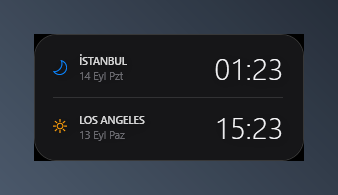
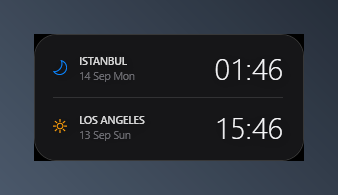
fix: recover the window when the display layout changes
The saved position was only validated at startup. Undock a laptop or
unplug a projector and the widget could sit outside the visible desktop
with no way back: it has no taskbar entry, no Alt+Tab entry, its
right-click menu needs a click on the window itself, and the
single-instance lock means relaunching does nothing. The only recovery
was deleting ayarlar.json by hand.

It now listens to SystemEvents.DisplaySettingsChanged, re-validates the
position on every layout change and pulls the window back to the
top-right corner if it has fallen off. The subscription is released on
close, like the theme watcher.

Also in this pass:

- README screenshots were showing the Turkish UI in the English README
  (PLANLAMA, "fark 10 sa", "14 Eyl Pzt"). They are now generated per
  language: docs/*.png in English, docs/*.tr.png in Turkish. The Turkish
  README gained real screenshots; it only had ASCII diagrams before.
- Dropped a UTF-8 BOM I had accidentally introduced into the three
  markdown files. saat.ps1 keeps its BOM - Windows PowerShell 5.1 needs
  it to read the Turkish characters correctly.
- Listed "Start with Windows" in the README feature list.

diff --git a/README.tr.md b/README.tr.md
@@ -1,4 +1,4 @@
-*[English documentation: README.md](README.md)*
+*[English documentation: README.md](README.md)*
 
 <img src="docs/icon.png" width="88" align="right" alt="Dual Clock ikonu">
 
@@ -7,12 +7,7 @@
 Masaüstünde sürekli duran, şeffaf, dijital çift-saat widget'ı.
 Kurulum gerektirmez: Windows PowerShell 5.1 + WPF (Windows'ta zaten var).
 
-```
-☀  İSTANBUL       07:06
-   12 Ağu Çar
-🌙 LOS ANGELES    21:06
-   11 Ağu Sal
-```
+![Masaüstünde widget](docs/clock.tr.png)
 
 ## Dosyalar
 
@@ -107,7 +102,7 @@ Sağ tık → **Şablon** menüsünden 6 farklı stil arasında geçiş yapabili
 - ⚡ **Neon Akrilik:** OLED derin siyah zemin (`#E608090C`), fütüristik elektrik camgöbeği (cyan) kenarlık ve neon ışıma gölgesi.
 - 🌑 **Klasik Koyu:** Sade, kenarlıksız, minimalist orijinal koyu cam tasarım.
 
-![Şablonlar ve görünümler](docs/themes.png)
+![Şablonlar ve görünümler](docs/themes.tr.png)
 
 *Apple Otomatik* görselde yok çünkü kendine ait bir paleti yok: Windows'un
 açık/koyu ayarını izleyip Apple Koyu ya da Apple Açık olarak çiziliyor.
@@ -154,6 +149,8 @@ karşılığı anında görünür.
 | Fare tekerleği | 15 dk — **Shift** ile 1 saat |
 | `şimdi` | Şu anı alır, sonraki 15 dakikaya yuvarlar |
 | `✕` | Canlı saate döner |
+
+![Planlama modu](docs/planning.tr.png)
 
 **Ayarladığınız satır her zaman üsttekidir** ve vurgulu yanar; alttaki sonucu
 gösterir. Diğer şehrin saatine göre planlamak isterseniz *Şehir seç* ile iki

diff --git a/README.md b/README.md
@@ -1,4 +1,4 @@
-<img src="docs/icon.png" width="88" align="right" alt="Dual Clock icon">
+<img src="docs/icon.png" width="88" align="right" alt="Dual Clock icon">
 
 # Desktop Dual Clock
 
@@ -34,6 +34,8 @@ shift, which is where most mistakes happen.
   setting automatically — right-click → *Theme / Style*
 - **Digital or analog** — right-click → *View*. The analog dials take their
   colours from whichever theme is active, so the two settings compose
+- **Start with Windows** — toggle auto-start from the right-click menu, no
+  installer and no registry keys
 - **Desktop-level** — never steals focus, never covers your work, stays below
   every window
 - **Drag anywhere**, adjustable background opacity, position remembered
